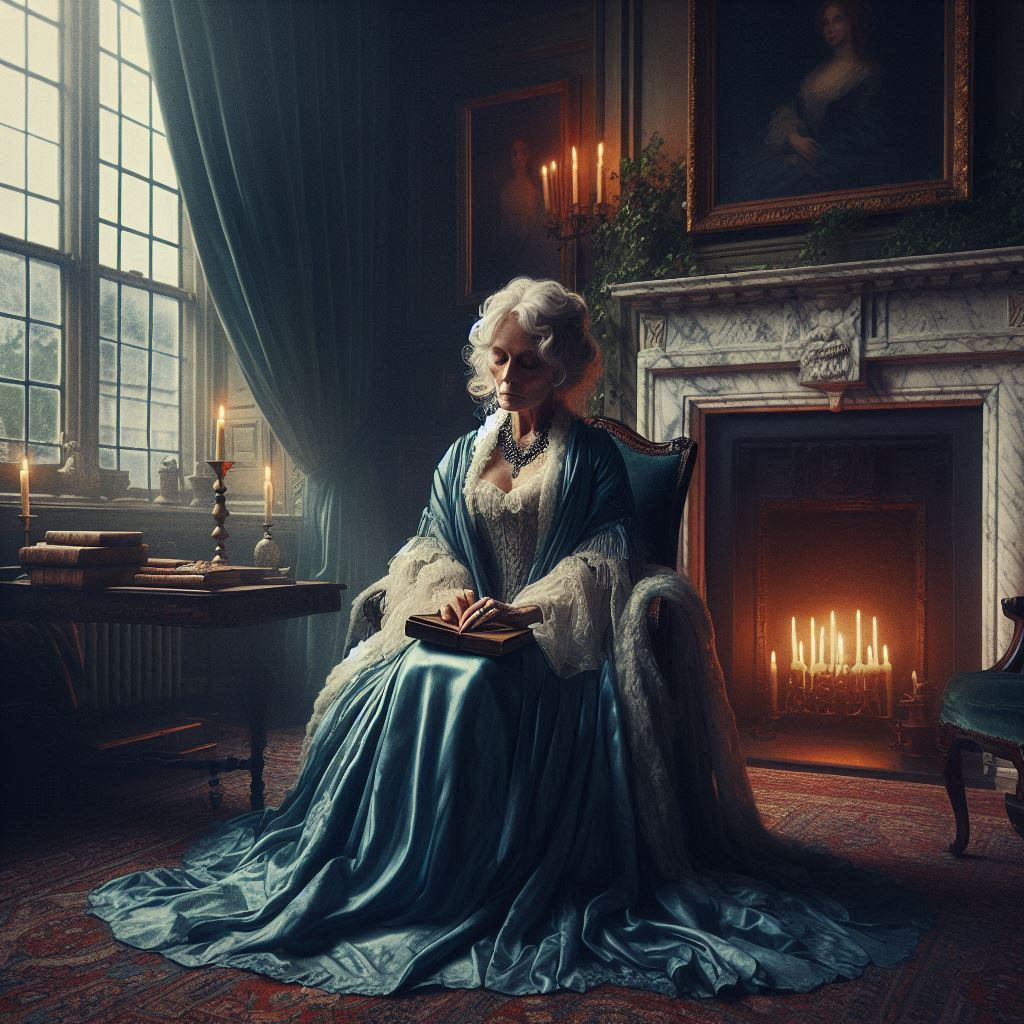
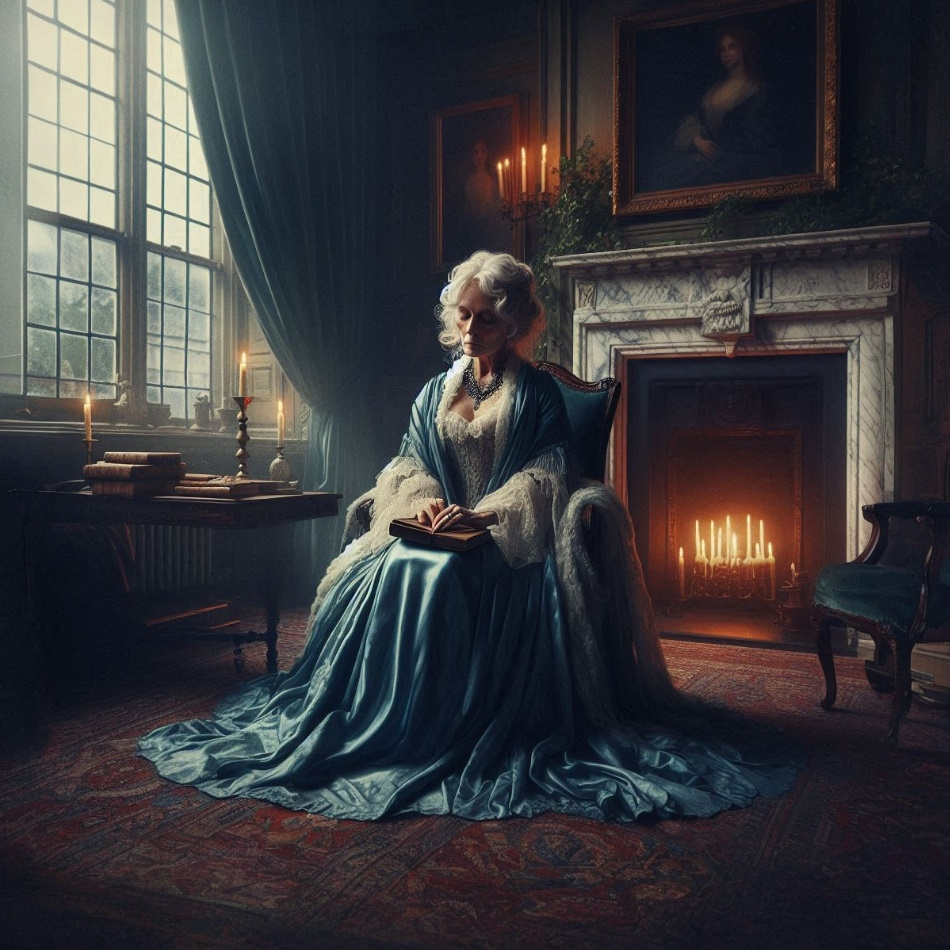
feat: made the auntie smaller and made the border of the chat window brown

diff --git a/src/main/resources/css/style.css b/src/main/resources/css/style.css
@@ -33,6 +33,17 @@
   -fx-effect: dropshadow(gaussian, rgba(0, 0, 0, 0.8), 10, 0.5, 0, 0);
 }
 
+.chat-pane {
+  -fx-background-color: rgba(135, 93, 60, 1);
+  background-color: rgba(135, 93, 60, 1);
+  -fx-border-radius: 20px;
+  border-radius: 20px;
+  -fx-background-radius: 10px;
+  -fx-padding: 10px;
+  padding: 10px;
+  -fx-effect: dropshadow(gaussian, rgba(0, 0, 0, 0.8), 10, 0.5, 0, 0);
+}
+
 .slider {
   -fx-control-inner-background: #FEFCCD;
   -fx-control-inner-background-alt: #FFFFFF;
